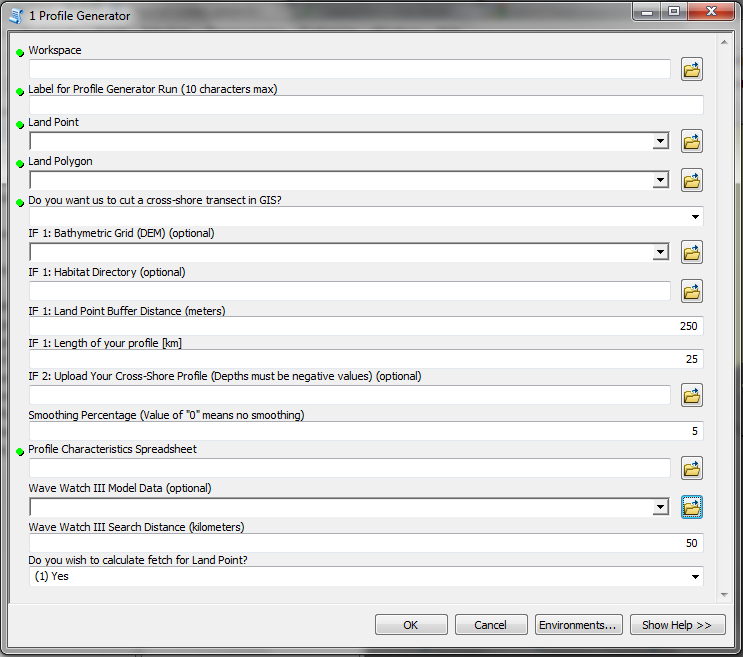
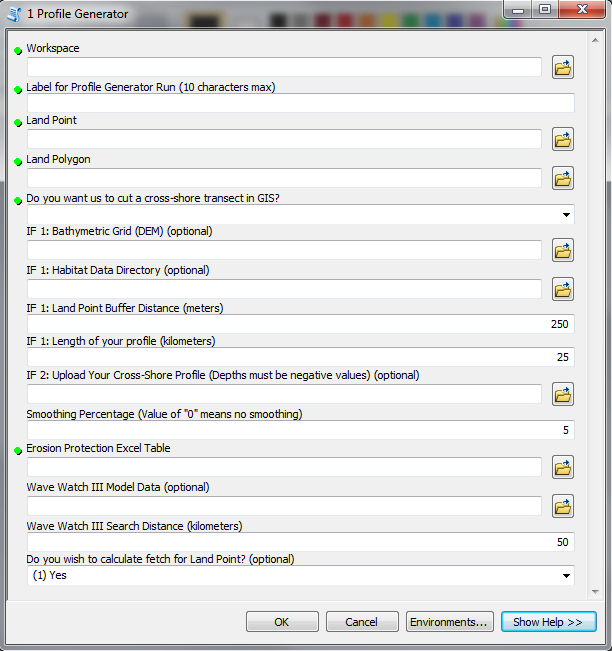
Fixed typos and added new screenshots to CPT1.  This was so much fun.

Changed region(s): [[0.0, 0.0, 1.0, 1.0]]

diff --git a/source/coastal_protection.rst b/source/coastal_protection.rst
@@ -442,6 +442,7 @@ Profile Generator
 
      Name: File can be named anything, but no spaces in the name
      File type: point shapefile (.shp)
+	 Sample path (default): \InVEST\CoastalProtection\Input\LandPoint_BarkSound.shp
 
 #. **Land Polygon (required).**  This input provides the model with a geographic shape of the coastal area of interest, and instructs it as to the boundaries of the land and seascape.  ::
 
@@ -494,7 +495,7 @@ Profile Generator
 
      Name: File can be named anything, but no spaces in the name
      File type: *.xls or .xlsx (if you have MS Excel 2007 or newer)
-     Sample path: \InVEST\CoastalProtection\Input\ProfileGenerator_Inputs_WCVI.xls
+     Sample path: \InVEST\CoastalProtection\Input\ErosionProtection_WCVI_BarkSound.xls
 
 #. **Wave Watch III Model Data (optional).**  If you would like the model to gather wind and wave statistics that might represent oceanic conditions at your site, upload the WW3 file that has been provide in the InVEST download package.  The model will use this dataset to read the maximum, top 10% and top 25% wind speed as well as wave height and associated wave period values from the model grid closest to your site. ::
 
@@ -534,7 +535,7 @@ The Nearshore Waves and Erosion model estimates the profile of wave height over 
 
      Table Names: File can be named anything, but no spaces in the name
      File type: *.xls or .xlsx (if you have MS Excel 2007 or newer)
-     Sample: InVEST\CoastalProtection\Input\WavesErosionModel_Inputs_WCVI.xls
+     Sample: InVEST\CoastalProtection\Input\ErosionProtection_WCVI_BarkSound.xls
 
 #. **Cross-Shore Profile (required).**  A cross-shore profile is required (which can be obtained from the Profile Generator's outputs) in order to model wave height evolution in your area. The output text file can be found in the "html_txt" folder of a successful PG run and will be called "CreatedProfile_[suffix].txt". This file must contain a minimum of 2 (X, Z) coordinates, and must be tab delimited with two columns.  The first column must be the cross-shore distance X-axis, with X=0 at the shoreline (positive X pointing seaward, negative X pointing landward).  The spatial resolution of the X-axis (spacing between two X-coordinates) must be equal to 1 (dx=1).  The second column must indicate the cross-shore elevations along the X-axis.  Depth values must be negative (referenced to Mean Lower Low Water) and terrestrial elevations must be positive. ::
 
@@ -614,39 +615,35 @@ The Nearshore Waves and Erosion model estimates the profile of wave height over 
      File type: text string (direct input to the ArcGIS interface)
      Sample (default): 1
      
-#.  **Compute Econonomic Valuation (required)**:   This is a check box that ought to be selected if you would like to approximate a monetary value of your habitat and the loss in this value owing to habitat modification (reduction). ::
+#.  **Compute Econonomic Valuation (optional)**:   By checking this box, users will instruct the model that they would like to approximate a monetary value for habitat and the loss in this value owing to habitat modification (reduction). ::
      
-     Box: Checked or Unchecked
-     
-#.  **Longshore Extent (meters) (required)**: To obtain an approximate area of land loss associated with retreat/erosion, the retreat/erosion distance must be multiplied by a longshore length. Essentially, this is the length along the shore where one would expect the same amount of retreat. In other words, this is the along shore length where the natural habitat types, coverage, and management actions, as well as, topo/bathy and forcing conditions are approximately uniform. ::
+#.  **Longshore Extent (meters) (required for valuation)**: To obtain an approximate area of land loss associated with retreat/erosion, the retreat/erosion distance must be multiplied by a longshore length. Essentially, this is the length along the shore where one would expect the same amount of retreat. In other words, this is the along shore length where the natural habitat types, coverage, and management actions, as well as, topo/bathy and forcing conditions are approximately uniform. ::
 
      Name: A numeric text string (positive integer)
      File type: text string (direct input to the ArcGIS interface)
      Sample (default): 250
      
-#.  **Property Value (Local Currency) (required)**: This is the monetary value of the land, per square meter, that you wish to use in the valuation computation. ::
+#.  **Property Value (local currency) (required for valuation)**: This is the monetary value of the land, per square meter, that you wish to use in the valuation computation. ::
 
-     Name: A numeric text string (positive integer)
+     Name: A numeric text string (required for valuation)
      File type: text string (direct input to the ArcGIS interface)
-     Sample (default): [Empty]
      
-#.  **Return Period of Storm (Years) (required)**: This is the number of years between occurences of the storm (surge and waves) applied in the model run that is experienced at your site. More extreme storms are more infrequent than less extreme storms. Typical return period used in risk assessment are 10, 50, 100, and 500 years, with 10 years being the most common and mild conditions and 500 years being very extreme and infrequent/less likely storm conditions. ::
+#.  **Return Period of Storm (years) (required for valuation)**: This is the number of years between occurences of the storm (surge and waves) applied in the model run that is experienced at your site. More extreme storms are more infrequent than less extreme storms. Typical return period used in risk assessment are 10, 50, 100, and 500 years, with 10 years being the most common and mild conditions and 500 years being very extreme and infrequent/less likely storm conditions. ::
 
      Name: A numeric text string (positive integer)
      File type: text string (direct input to the ArcGIS interface)
      Sample (default): 10
      
-#.  **Discount Rate (required)**: A discount rate to adjust the monetary benefits of the natural habitats in future years to the present time is required. A typical value for the discount rate is 5%, which is provided as a default. You are free to change this value. ::
+#.  **Discount Rate (required for valuation)**: A discount rate to adjust the monetary benefits of the natural habitats in future years to the present time is required. A typical value for the discount rate is 5%, which is provided as a default. You are free to change this value. ::
 
      Name: A numeric text string (positive integer)
      File type: text string (direct input to the ArcGIS interface)
      Sample (default): 0.05
 
-#.  **Time Horizon of Valuation (Years) (required)**: This is the years over which you intend to value the coastal protection services provided by your habitat. ::
+#.  **Time Horizon of Valuation (years) (required for valuation)**: This is the years over which you intend to value the coastal protection services provided by your habitat. ::
 
      Name: A numeric text string (positive integer)
      File type: text string (direct input to the ArcGIS interface)
-     Sample (default): 15
      
 
 .. _cp-excel:
@@ -913,7 +910,7 @@ The following example of setting up the Erosion Protection model uses the sample
 
 13. Specify the Erosion Protection Excel Table.  The model requires you to specify information about your site for sediment size, tide elevation and habitats.  A sample Erosion Protection Excel Table will be supplied for you.
 
-    Click |openfold| and path to the *InVEST/CoastalProtection/Input* data folder. Double left-click on the file *ProfileCharacteristics_WCVI.xls*.
+    Click |openfold| and path to the *InVEST/CoastalProtection/Input* data folder. Double left-click on the file *ErosionProtection_WCVI_BarkSound.xls*.
 
     Click |addbutt| to make the selection.
 
@@ -955,7 +952,7 @@ The following example of setting up the Erosion Protection model uses the sample
 
 21. Provide the Erosion Protection Excel Table.  The model requires you to specify information about site information and habitat management actions.  A sample Erosion Protection Excel Table will be supplied for you.
 
-    Click |openfold| and path to the *InVEST/CoastalProtection/Input* data folder. Double left-click on the file *ProfileCharacteristics_WCVI.xls*.
+    Click |openfold| and path to the *InVEST/CoastalProtection/Input* data folder. Double left-click on the file *ErosionProtection_WCVI_BarkSound.xls*.
 
     Click |addbutt| to make the selection.
 
@@ -989,7 +986,7 @@ The following example of setting up the Erosion Protection model uses the sample
 
 33. Specify the Discount Rate. If you wish to compute economic valuation, you will have to provide a discount rate. The default value is 5% (0.05) but you are free to change this parameter if a different discount rate is more appropriate.
 
-34. Specify the Time Horizon of Valuation. If you wish to compute economic valuation, you will have to provide the number of years into the future you would like to value the protective services of your habitat. The default value is 15 years but you can change this parameter to the time horizon in which you are interested.
+34. Specify the Time Horizon of Valuation. If you wish to compute economic valuation, you will have to provide the number of years into the future you would like to value the protective services of your habitat.
 
 35. At this point the model dialog box is completed for a full run of the Nearshore Waves and Erosion portion of the Erosion Protection model.
 
@@ -1037,9 +1034,9 @@ html_txt
 """"""""
 
 This folder contains two webpage links, figures used in the webpages, and three text files.
-+ profile.html:  This html file contains information summarizing the location of your site, as well as the information you entered in the model’s interface and Excel input file.  This output also contains figures showing the bathymetry profile created and/or smoothed by the Profile Generator Model, with close ups of the backshore area, when applicable.  Also, if you have uploaded a folder of natural habitats *and** used the Profile Generator Model to cut a cross-shore transect for you from a DEM file, a table and figure are presented that indicate the X-coordinates of the beginning and end of where each natural habitat exists along the transect.
++ profile.html:  This HTML file contains information summarizing the location of your site, as well as the information you entered in the model’s interface and Excel input file.  This output also contains figures showing the bathymetry profile created and/or smoothed by the Profile Generator Model, with close ups of the backshore area, when applicable.  Also, if you have uploaded a folder of natural habitats *and** used the Profile Generator Model to cut a cross-shore transect for you from a DEM file, a table and figure are presented that indicate the X-coordinates of the beginning and end of where each natural habitat exists along the transect.
 
-+ fetchwindwave.html:  This html file contains figures showing wind and fetch roses.  It also contains information on fetch distances computed by the model, if you chose this option.  There are also tables showing the average values of the maximum, as well as the top 10% and 25% wind speed and wave height extracted from the WW3 gage point closest to your site, if you uploaded that file.  Finally, if you had the model compute fetch distances for you and uploaded WW3 data, this page also contains estimates of wind-generated wave height for each of the 16 equidistant sectors that make a full compass circle.
++ fetchwindwave.html:  This HTML file contains figures showing wind and fetch roses.  It also contains information on fetch distances computed by the model, if you chose this option.  There are also tables showing the average values of the maximum, as well as the top 10% and 25% wind speed and wave height extracted from the WW3 gage point closest to your site, if you uploaded that file.  Finally, if you had the model compute fetch distances for you and uploaded WW3 data, this page also contains estimates of wind-generated wave height for each of the 16 equidistant sectors that make a full compass circle.
 
 + FetchDistances_[suffix].txt:  This text file contains information on fetch distances computed by the model.  It has two columns.  The first column shows the 16 directional sectors angles, and the second column has fetch distances associated with these sectors.
 
@@ -1064,7 +1061,7 @@ _WaveModel_Outputs
 ^^^^^^^^^^^^^^^^^^
 This folder contains two useful outputs from the Nearshore Waves and Erosion model: 
 
-+ OutputWaveModel_[suffix].html:  This html file summarizes the information you entered as input in the model, including wave forcing and habitat management actions, and describes the outputs.  It contains a figure depicting profiles of wave height (before and after habitat management action), as well as percent of wave attenuation and the location of your natural habitats along your bathymetry.  It also provides a figure showing a profile of erosion or hourly rate of bed scour in your backshore area before and after management action. If valuation was selected, a table summarizing the value of your natural habitats before and after management action is presented.
++ OutputWaveModel_[suffix].html:  This HTML file summarizes the information you entered as input in the model, including wave forcing and habitat management actions, and describes the outputs.  It contains a figure depicting profiles of wave height (before and after habitat management action), as well as percent of wave attenuation and the location of your natural habitats along your bathymetry.  It also provides a figure showing a profile of erosion or hourly rate of bed scour in your backshore area before and after management action. If valuation was selected, a table summarizing the value of your natural habitats before and after management action is presented.
 
 + WaveHeight_[suffix].txt:  This text file contains three columns showing distance from the shoreline and profiles of wave height over your bathymetry profile, before (second column) and after (third column) your management action.  
 
